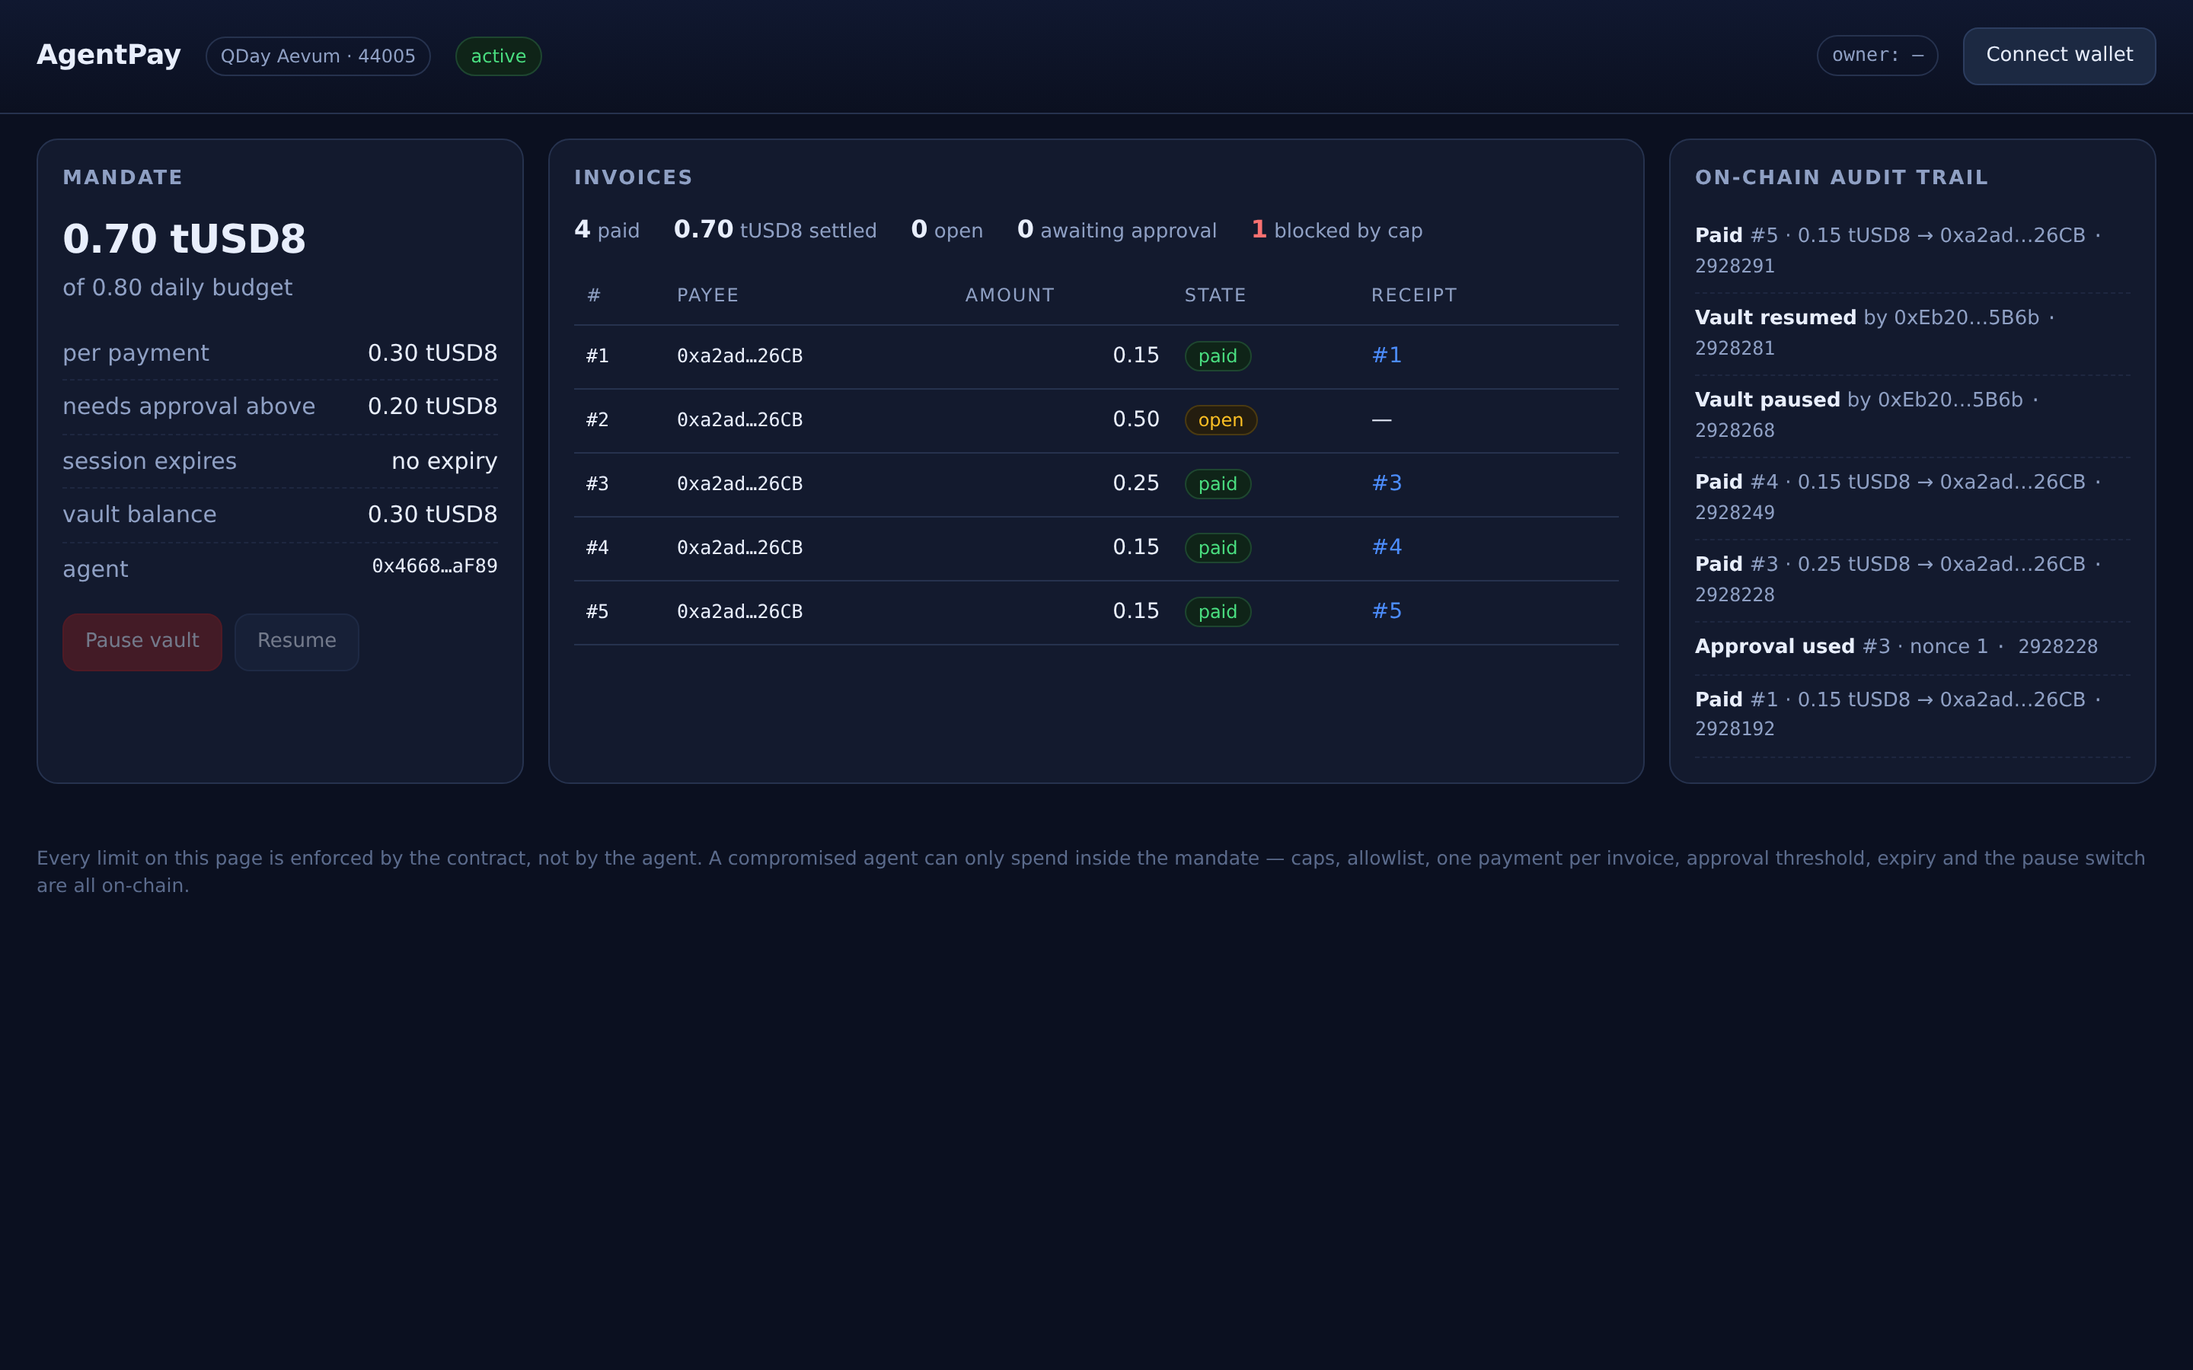
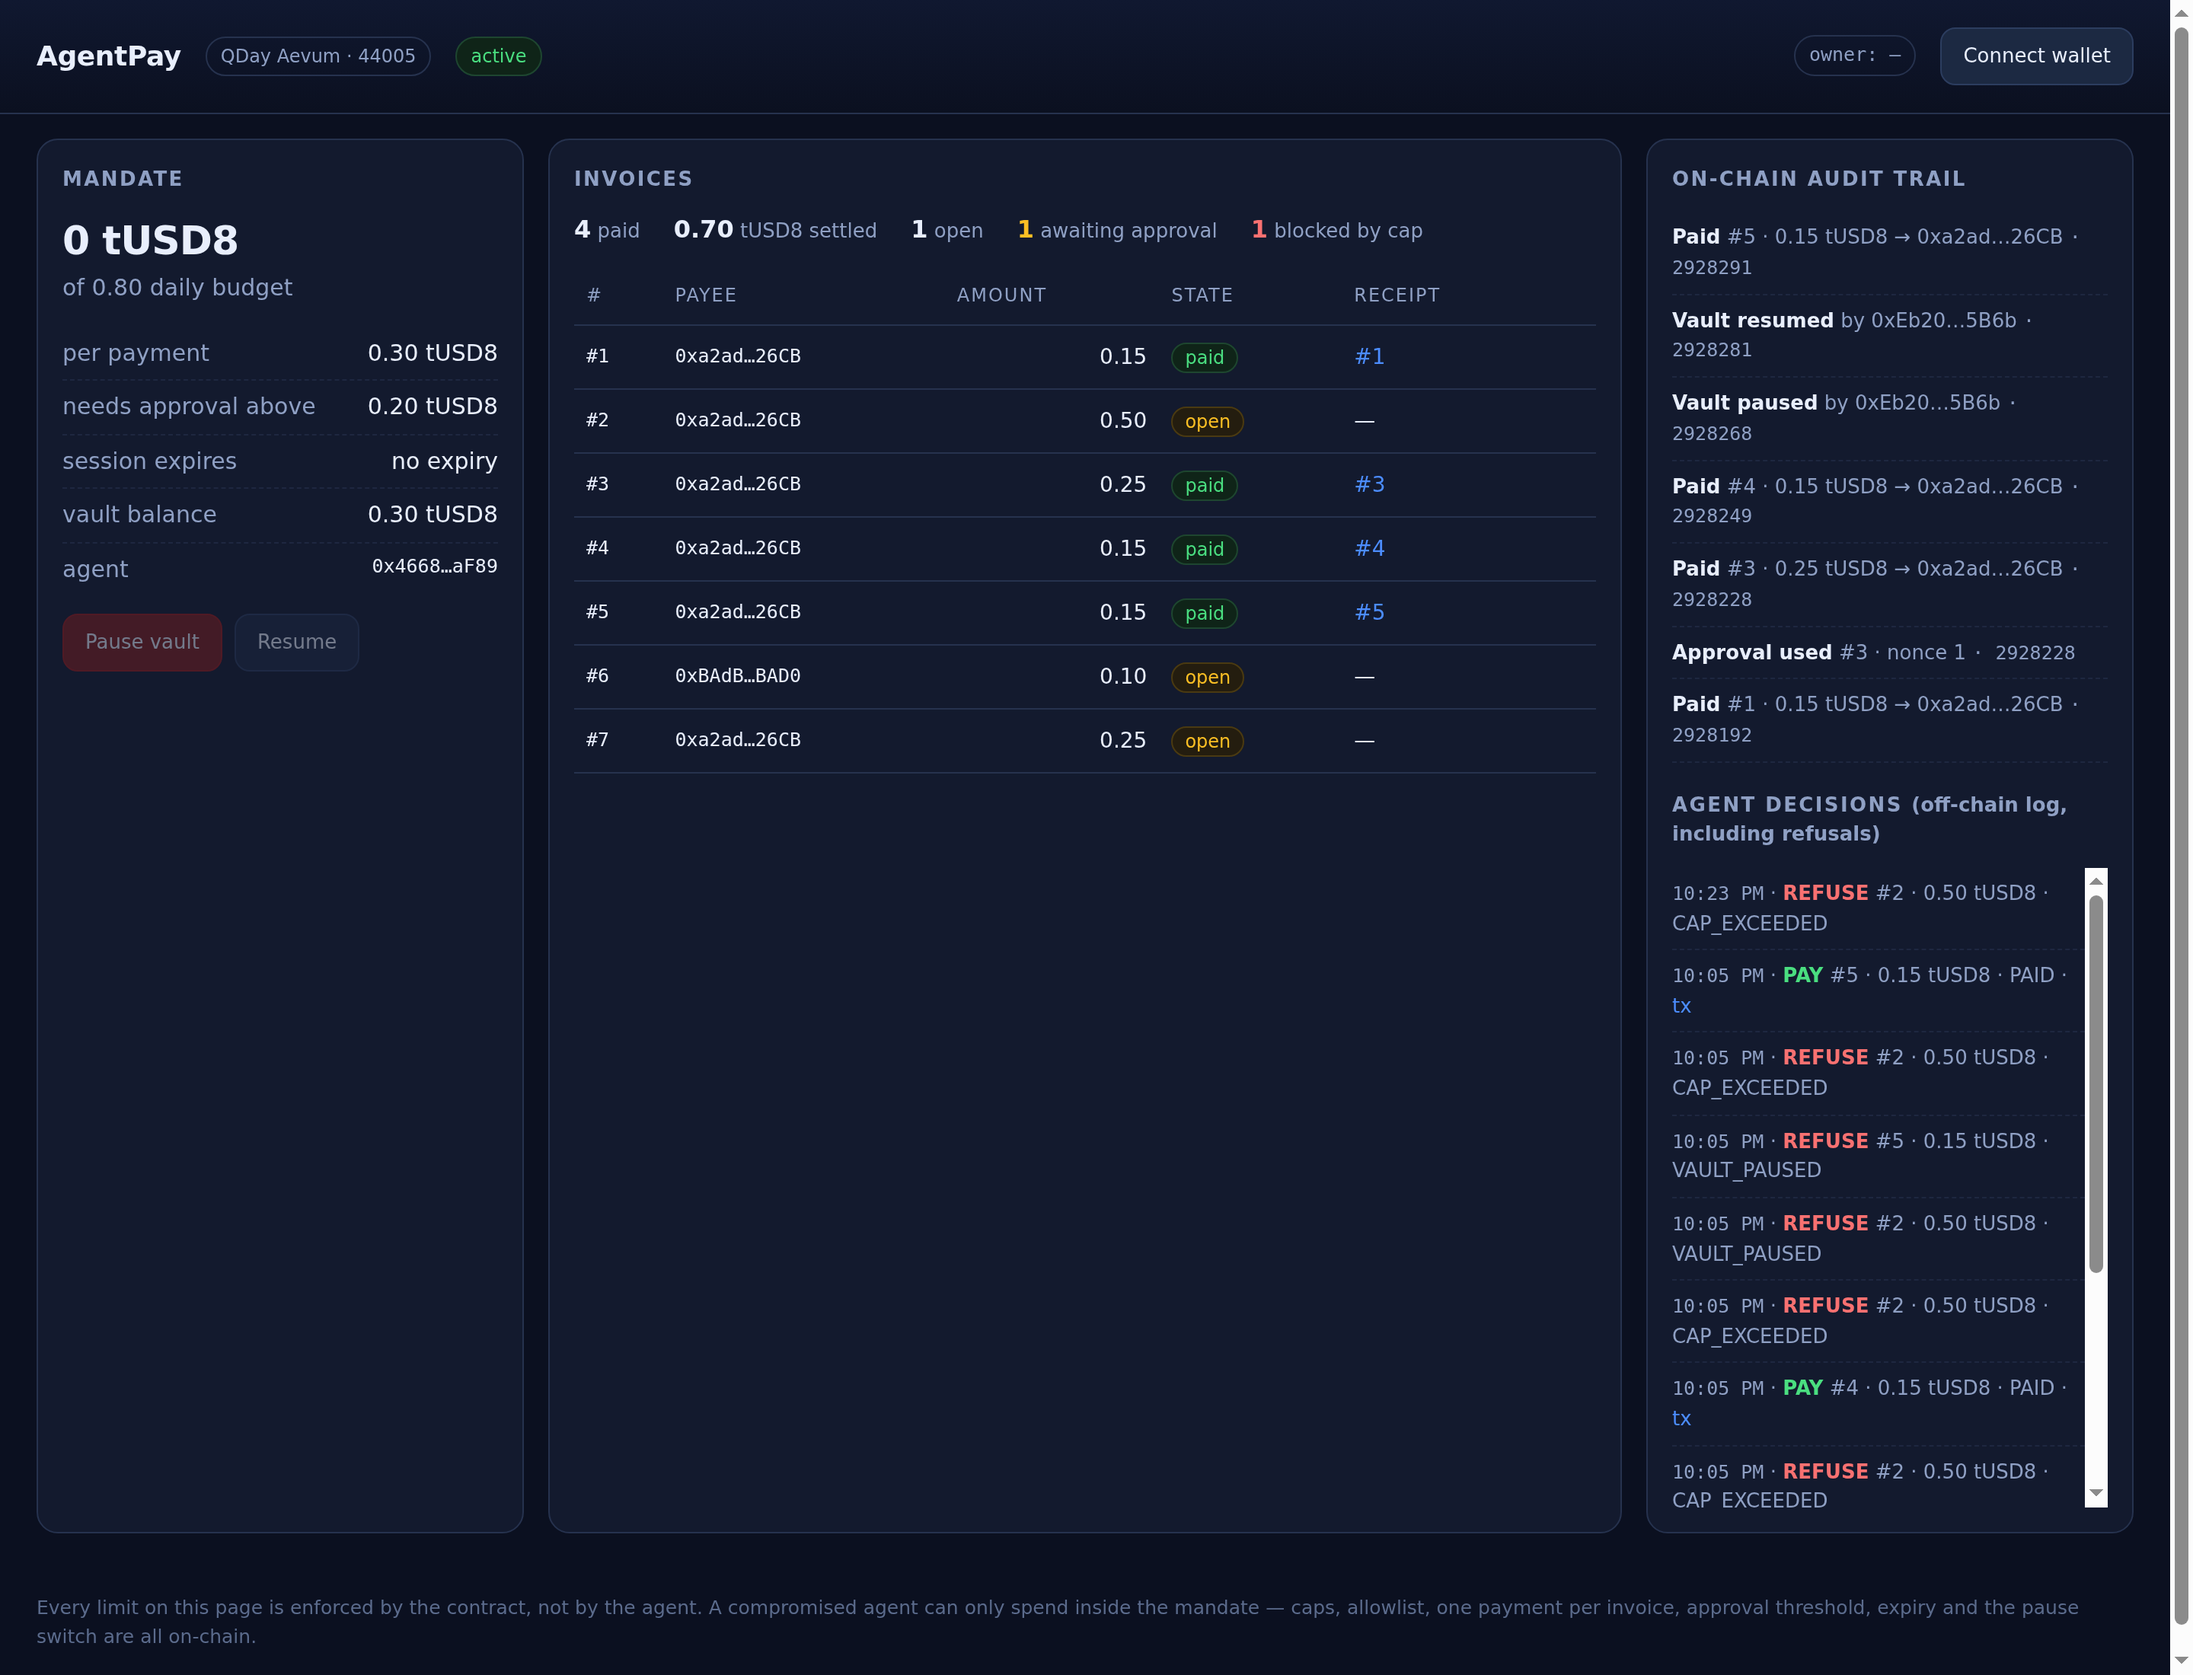
Add a 60-second judge guide and refresh the dashboard screenshot

diff --git a/README.md b/README.md
@@ -16,6 +16,14 @@ Track: **Native AI Assistants**.
 
 ---
 
+## For judges — 60 seconds
+
+1. **Watch** the 3:32 walkthrough: five beats executed on the real testnet, then eight attacks against our own vault — https://amburadullzz.github.io/agentpay/agentpay-demo.mp4
+2. **Open** the live dashboard: https://amburadullzz.github.io/agentpay/ — mandate, invoices, receipts and the agent's own decision log, all read from chain.
+3. **Check the evidence**: [`docs/EVIDENCE.md`](docs/EVIDENCE.md) (every transaction) and [`docs/ATTACK-EVIDENCE.md`](docs/ATTACK-EVIDENCE.md) (8/8 attacks refused).
+4. **Run it**: `forge install foundry-rs/forge-std OpenZeppelin/openzeppelin-contracts@v5.1.0 && forge test` → 57 tests, 100% line coverage.
+5. **The one thing to remember**: the agent key holds no owner rights. Caps, allowlist, idempotency, approval threshold, expiry and the pause switch are enforced by the contract — a compromised agent can only spend inside its mandate.
+
 ## The problem
 
 Agents can already decide to buy something. Giving one a funded wallet means trusting it with unbounded authority — one hallucinated amount, one prompt injection, and the money is gone.
